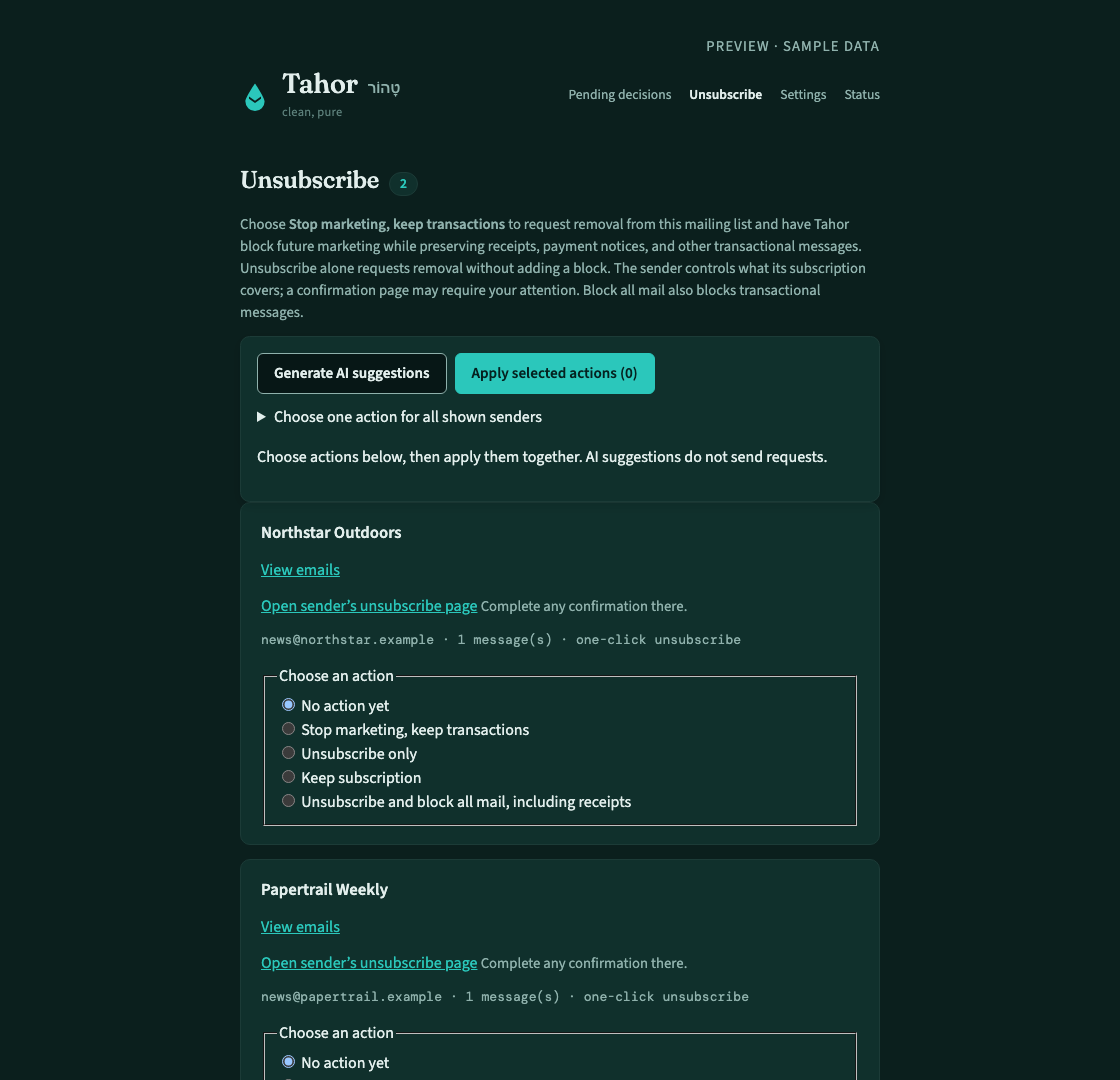
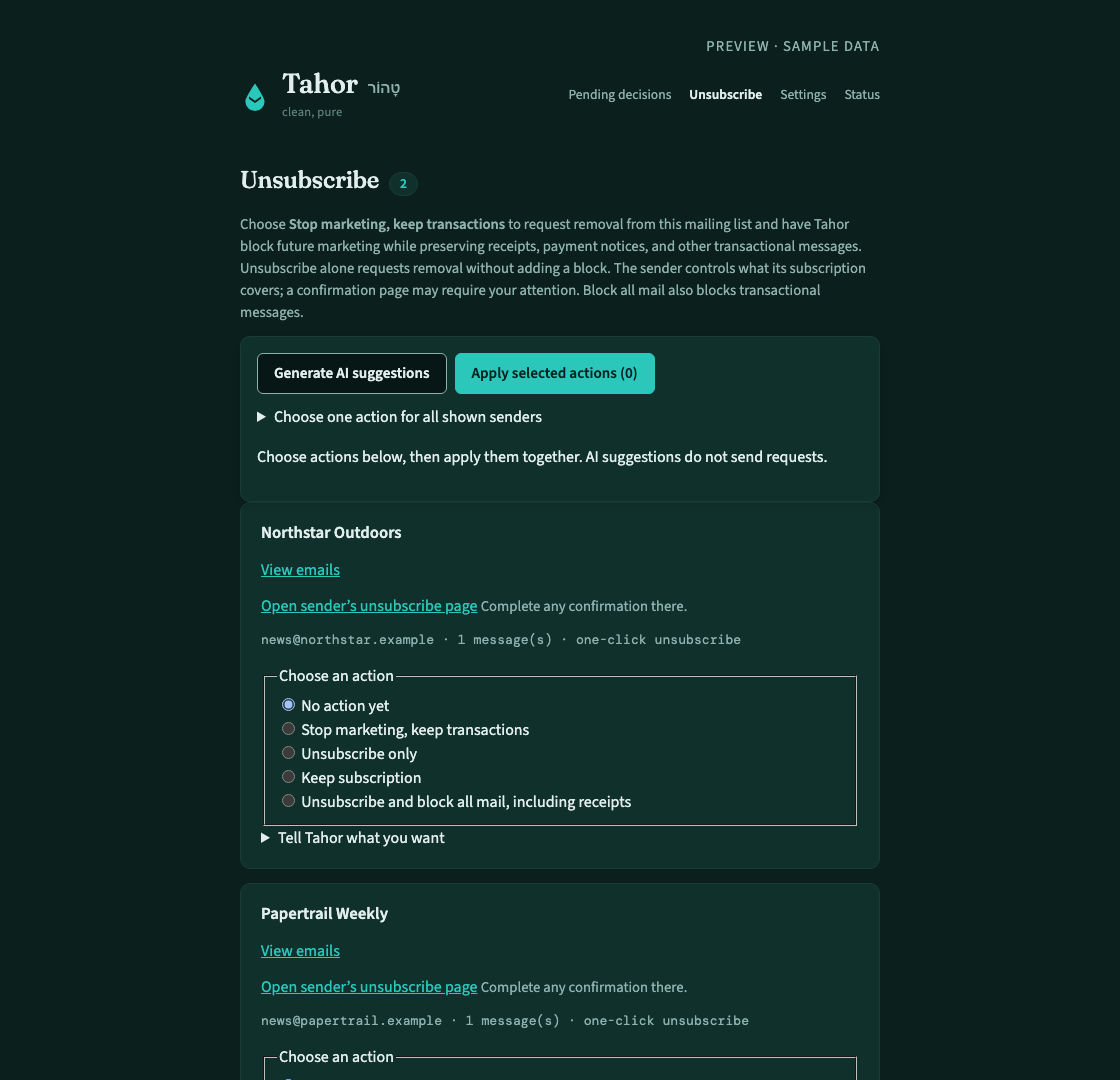
Add contextual instructions to subscription and decision cards

Changed region(s): [[0.2188, 0.7639, 0.6562, 1.0]]

diff --git a/subscription_bulk_ui.py b/subscription_bulk_ui.py
@@ -10,7 +10,7 @@ SCRIPT = r'''<script>
  const storageKey='tahor-subscription-choices';
  let saved={}; try{saved=JSON.parse(sessionStorage.getItem(storageKey)||'{}');}catch(_){}
  const choices=()=>cards().filter(c=>!c.dataset.queued).map(c=>({candidate_id:Number(c.dataset.subscriptionId),action:c.querySelector('input:checked')?.value})).filter(c=>c.action);
- function remember(){const state={};for(const c of cards()){const value=c.querySelector('input:checked')?.value;if(value||c.dataset.manual==='true')state[c.dataset.subscriptionId]={action:value,manual:c.dataset.manual==='true',attentionJob:c.dataset.attentionJob||''};}try{sessionStorage.setItem(storageKey,JSON.stringify(state));}catch(_){}}
+ function remember(){const state={};for(const c of cards()){const value=c.querySelector('input:checked')?.value;if(value||c.dataset.manual==='true')state[c.dataset.subscriptionId]={action:value,manual:c.dataset.manual==='true',attentionJob:c.dataset.attentionJob||'',instructionCleared:c.dataset.instructionCleared==='true',guidanceSaved:c.dataset.guidanceSaved==='true'};}try{sessionStorage.setItem(storageKey,JSON.stringify(state));}catch(_){}}
  function prioritize(preserve=true){
   const list=document.querySelector('#subscription-cards');if(!list||document.querySelector('dialog.email-preview[open]'))return;
   const current=[...list.querySelectorAll('[data-subscription-id]')];
@@ -27,8 +27,9 @@ SCRIPT = r'''<script>
  document.addEventListener('close',()=>setTimeout(()=>prioritize(),0),true);
  function count(preserve=true){bar.querySelector('[data-selected-count]').textContent=String(choices().length);prioritize(preserve);}
  function choose(c,action,manual){const radio=[...c.querySelectorAll('input[type="radio"]')].find(r=>r.value===action);if(radio&&!c.dataset.queued){radio.checked=true;if(manual)c.dataset.manual='true';}}
- for(const c of cards()){const old=saved[c.dataset.subscriptionId];if(old?.attentionJob)c.dataset.attentionJob=old.attentionJob;if(old?.manual)choose(c,old.action,true);}
- document.addEventListener('change',event=>{const c=event.target.closest('[data-subscription-id]');if(c&&event.target.type==='radio'){c.dataset.manual='true';remember();count();}});
+ for(const c of cards()){const old=saved[c.dataset.subscriptionId];if(old?.attentionJob)c.dataset.attentionJob=old.attentionJob;if(old?.instructionCleared)c.dataset.instructionCleared='true';if(old?.guidanceSaved)c.dataset.guidanceSaved='true';if(old?.manual)choose(c,old.action,true);}
+ document.addEventListener('card-guidance-state',()=>remember());
+ document.addEventListener('change',event=>{const c=event.target.closest('[data-subscription-id]');if(c&&event.target.type==='radio'){if(event.isTrusted){delete c.dataset.instructionCleared;delete c.dataset.guidanceSaved;}c.dataset.manual='true';remember();count();}});
  bar.querySelector('[data-select-all]').addEventListener('click',()=>{const action=bar.querySelector('[data-bulk-choice]').value;for(const c of cards())choose(c,action,true);remember();count();});
  async function request(url,values){const options={credentials:'same-origin',headers:{Accept:'application/json'}};if(values){options.method='POST';options.body=new URLSearchParams({csrf_token:csrf,...values});}const response=await fetch(url,options);const body=await response.json();if(!response.ok)throw new Error(body.error||'The request could not be confirmed.');return body;}
  const wait=()=>new Promise(resolve=>setTimeout(resolve,2000));
@@ -37,7 +38,7 @@ SCRIPT = r'''<script>
  let sending=false;let pending=null;
  apply.addEventListener('click',async()=>{if(sending)return;const selected=choices();if(!pending&&!selected.length){notice.textContent='Choose an action for at least one sender.';return;}pending=pending||{request_key:[...crypto.getRandomValues(new Uint8Array(16))].map(value=>value.toString(16).padStart(2,'0')).join(''),selections:JSON.stringify(selected)};sending=true;apply.disabled=true;notice.textContent='Saving selected actions…';try{const job=await request('/unsubscribe/batches',pending);pending=null;notice.textContent='Selected actions are queued. You can continue reviewing other senders.';follow(job,true);}catch(error){notice.textContent=error.message+' Retry Apply selected actions to confirm this same request.';}finally{sending=false;apply.disabled=false;}});
  function suggestions(job){for(const suggestion of job.recommendations||[]){const c=cardFor(suggestion.candidate_id);if(!c||c.dataset.manual==='true'||c.dataset.queued)continue;choose(c,suggestion.action,false);c.dataset.recommended='true';c.querySelector('.subscription-result').textContent='AI suggestion: '+suggestion.reason;}remember();count();}
- generate.addEventListener('click',async()=>{if(generate.disabled)return;generate.disabled=true;notice.textContent='Generating suggestions for the next batch…';try{let job=await request('/unsubscribe/suggestions',{exclude_ids:JSON.stringify(cards().filter(c=>c.dataset.manual==='true'||c.dataset.queued).map(c=>Number(c.dataset.subscriptionId)))});suggestions(job);while(job.status!=='complete'&&job.status!=='failed'){notice.textContent=job.error||((job.status==='queued'?'Waiting for the background worker. ':'Generating suggestions. ')+(job.completed||0)+' of '+(job.total||0)+' processed. '+((job.recommendations||[]).length?(job.recommendations.length+' suggestions ready for review.'):'No suggestions are ready yet.'));await wait();job=await request('/unsubscribe/suggestions/'+job.job_id);suggestions(job);}notice.textContent=job.error||((job.recommendations||[]).length?'Suggestions are selected for review. Nothing is applied until you submit.':'No new suggestions in this batch. Your current choices are unchanged.');}catch(error){notice.textContent=error.message;}finally{generate.disabled=false;}});
+ generate.addEventListener('click',async()=>{if(generate.disabled)return;generate.disabled=true;for(const c of cards()){if(c.dataset.guidanceSaved==='true'&&c.dataset.instructionCleared==='true'&&!c.dataset.queued){delete c.dataset.manual;delete c.dataset.guidanceSaved;delete c.dataset.instructionCleared;}}remember();notice.textContent='Generating suggestions for the next batch…';try{let job=await request('/unsubscribe/suggestions',{exclude_ids:JSON.stringify(cards().filter(c=>c.dataset.manual==='true'||c.dataset.queued).map(c=>Number(c.dataset.subscriptionId)))});suggestions(job);while(job.status!=='complete'&&job.status!=='failed'){notice.textContent=job.error||((job.status==='queued'?'Waiting for the background worker. ':'Generating suggestions. ')+(job.completed||0)+' of '+(job.total||0)+' processed. '+((job.recommendations||[]).length?(job.recommendations.length+' suggestions ready for review.'):'No suggestions are ready yet.'));await wait();job=await request('/unsubscribe/suggestions/'+job.job_id);suggestions(job);}notice.textContent=job.error||((job.recommendations||[]).length?'Suggestions are selected for review. Nothing is applied until you submit.':'No new suggestions in this batch. Your current choices are unchanged.');}catch(error){notice.textContent=error.message;}finally{generate.disabled=false;}});
  count(false);request('/unsubscribe/batches').then(jobs=>jobs.forEach(job=>follow(job))).catch(()=>{notice.textContent='Saved progress could not be loaded. Reload before submitting existing work.';});
 })();
 </script>'''

diff --git a/decision-app/app.py b/decision-app/app.py
@@ -41,6 +41,8 @@ import provider_bridge
 import mailbox_settings
 import message_preview
 import subscription_bulk_ui
+import card_instructions
+import card_instructions_ui
 import settings_autosave
 import vendor_review_state
 import decision_interactions
@@ -721,6 +723,7 @@ def index():
     automatic_ids = set(vendor_suggestions.pending_work_ids(db)) if mailbox_settings.is_ai_enabled('rule') else set()
     automatic_count = 0
     cards = []
+    saved_instructions = card_instructions.get_all_card_instructions('decision')
     for row in pending:
         ctx = decision_context(row)
         if row["kind"] == "free_text_rule":
@@ -802,6 +805,9 @@ def index():
             cards.append(CARD_GENERIC.format(id=row["id"], summary=html(row["summary"] or '(No subject)'), context=html(ctx), details=details))
 
         if cards:
+            instruction_form = card_instructions_ui.render('decision', row['id'], saved_instructions.get(row['id'], ''))
+            end = cards[-1].rfind('</div>')
+            cards[-1] = cards[-1][:end] + instruction_form + cards[-1][end:]
             cards[-1] = cards[-1].replace('<div class="card"', f'<div class="card" data-decision-id="{row["id"]}" data-decision-kind="{row["kind"]}"', 1)
 
     review_count = len(cards)
@@ -835,7 +841,7 @@ def index():
         sieve_banner=sieve_banner,
         cards=body,
         sieve_content=html(sieve_content),
-    ) + decision_interactions.SCRIPT
+    ) + decision_interactions.SCRIPT + card_instructions_ui.SCRIPT
 
 
 def _settings_status_line(current_mode):
@@ -1235,6 +1241,21 @@ def resolve(decision_id):
     return redirect("/")
 
 
+@app.route("/card-instructions/<kind>/<int:identifier>", methods=["POST"])
+@login_required
+def save_card_guidance(kind, identifier):
+    action = request.form.get('submit_action', 'guidance')
+    if action not in ('guidance', 'propose_rule'):
+        return jsonify(error='Choose whether to save guidance or propose a rule.'), 400
+    try:
+        result = card_instructions.save_card_instructions(kind, identifier, request.form.get('instructions', ''), propose_rule=action == 'propose_rule')
+    except LookupError:
+        return jsonify(error='This review item no longer exists. Refresh the page.'), 404
+    except ValueError as error:
+        return jsonify(error=str(error)), 400
+    return jsonify(result)
+
+
 @app.route("/add-rule", methods=["POST"])
 @login_required
 def add_rule():
@@ -1387,7 +1408,7 @@ def retry_rule(decision_id):
     return redirect("/")
 
 
-def _unsubscribe_card(row, non_compliant=False, suggestion=None, related_handled=None):
+def _unsubscribe_card(row, non_compliant=False, suggestion=None, related_handled=None, instructions=None):
     mechanism = "one-click unsubscribe" if row["one_click"] else ("unsubscribe link" if row["unsubscribe_url"] else ("email unsubscribe" if row["unsubscribe_mailto"] else "no unsubscribe mechanism found"))
     template = NON_COMPLIANT_CARD if non_compliant else UNSUBSCRIBE_CARD
     rendered = template.format(
@@ -1405,6 +1426,8 @@ def _unsubscribe_card(row, non_compliant=False, suggestion=None, related_handled
         rendered = rendered.replace('data-subscription-id=', 'data-recommended="true" data-subscription-id=', 1)
         rendered = rendered.replace('value="" checked', 'value=""').replace('value="' + suggestion['action'] + '"', 'value="' + suggestion['action'] + '" checked')
         rendered = rendered.replace('</fieldset>', '</fieldset><p class="ai-suggestion">AI suggestion: ' + html(suggestion.get('reason', '')) + '</p>')
+    end = rendered.rfind('</div>')
+    rendered = rendered[:end] + card_instructions_ui.render('subscription', row['id'], (card_instructions.get_card_instructions('subscription', row['id']) if instructions is None else instructions)) + rendered[end:]
     return rendered
 
 
@@ -1428,13 +1451,14 @@ def unsubscribe_page():
     non_compliant_banner = ""
     if non_compliant_rows:
         non_compliant_banner = NON_COMPLIANT_SECTION.format(cards='')
+    saved_instructions = card_instructions.get_all_card_instructions('subscription')
     ordered_rows = sorted(list(non_compliant_rows) + list(pending_rows), key=lambda row: row['id'] not in suggestions)
-    body = "".join(_unsubscribe_card(r, non_compliant=bool(r['non_compliant']), suggestion=suggestions.get(r["id"]), related_handled=handled_names.get((r["display_name"] or "").strip().casefold())) for r in ordered_rows) if ordered_rows else '<p class="empty">No unsubscribe candidates pending.</p>'
+    body = "".join(_unsubscribe_card(r, non_compliant=bool(r['non_compliant']), suggestion=suggestions.get(r["id"]), instructions=saved_instructions.get(r['id'], ''), related_handled=handled_names.get((r["display_name"] or "").strip().casefold())) for r in ordered_rows) if ordered_rows else '<p class="empty">No unsubscribe candidates pending.</p>'
     return UNSUBSCRIBE_PAGE_TEMPLATE.format(
         icon=TAHOR_ICON,
         style=STYLE_BLOCK,
         header=tahor_header("unsubscribe"),
-        interaction_script=subscription_bulk_ui.SCRIPT,
+        interaction_script=subscription_bulk_ui.SCRIPT + card_instructions_ui.SCRIPT,
         flash=FLASH_BANNER.format(message=html(session.pop("flash", ""))) if session.get("flash") else "",
         count=len(non_compliant_rows) + len(pending_rows),
         bulk_controls=subscription_bulk_ui.BAR,

diff --git a/card_instructions_ui.py b/card_instructions_ui.py
@@ -1,0 +1,42 @@
+"""Contextual owner guidance without leaving a review card."""
+from html import escape
+
+
+def render(kind, identifier, text=''):
+    return f'''<details class="card-instructions"><summary>Tell Tahor what you want</summary>
+<form method="post" action="/card-instructions/{kind}/{int(identifier)}" data-card-instructions>
+<label>Your instructions<textarea name="instructions" rows="3" maxlength="4000" required placeholder="Explain who this sender is and how you want their emails handled.">{escape(text)}</textarea></label>
+<p class="hint">Save guidance to improve AI recommendations for this sender. Propose a rule to request a mailbox policy change; review the proposal on Pending decisions before it applies. Neither button sends a reply or unsubscribes you.</p>
+<div class="actions"><button name="submit_action" value="guidance">Save AI guidance</button><button name="submit_action" value="propose_rule">Propose a rule</button></div>
+<p data-instruction-status role="status" aria-live="polite"></p>
+</form></details>'''
+
+SCRIPT = r'''<script>
+(() => {
+ document.addEventListener('input', event => {
+  const form=event.target.closest('[data-card-instructions]');if(!form)return;
+  const card=form.closest('[data-subscription-id]');if(card){delete card.dataset.guidanceSaved;card.dispatchEvent(new Event('card-guidance-state',{bubbles:true}));}
+  if(card&&!card.dataset.queued&&card.dataset.manual!=='true'){
+   const none=card.querySelector('input[type="radio"][value=""]');
+   if(none){card.dataset.instructionCleared='true';none.checked=true;none.dispatchEvent(new Event('change',{bubbles:true}));}
+  }
+ });
+ document.addEventListener('submit', async event => {
+  const form=event.target.closest('[data-card-instructions]');if(!form)return;
+  event.preventDefault();if(form.dataset.busy)return;
+  const data=new FormData(form);data.set('submit_action',event.submitter?.value||'guidance');
+  const status=form.querySelector('[data-instruction-status]');
+  form.dataset.busy='true';form.querySelectorAll('button').forEach(b=>b.disabled=true);
+  status.textContent='Saving your instructions…';
+  try{
+   const response=await fetch(form.getAttribute('action'),{method:'POST',body:data,credentials:'same-origin',headers:{Accept:'application/json'}});
+   const result=await response.json();if(!response.ok)throw new Error(result.error||'Instructions could not be saved.');
+   const unchanged=form.querySelector('textarea').value===data.get('instructions');
+   status.textContent=unchanged?(result.message||'Guidance saved. Generate fresh suggestions to use it.'):'Earlier text saved; save your latest edits before generating.';
+   const card=form.closest('[data-subscription-id]');if(unchanged&&card?.dataset.instructionCleared){card.dataset.guidanceSaved='true';card.dispatchEvent(new Event('card-guidance-state',{bubbles:true}));}
+   if(result.decision_id){const link=document.createElement('a');link.href='/';link.textContent=' Review rule proposals';status.append(link);}
+  }catch(error){status.textContent=error.message||'Could not confirm the save. Your text is still here; retry when ready.';}
+  finally{delete form.dataset.busy;form.querySelectorAll('button').forEach(b=>b.disabled=false);}
+ });
+})();
+</script>'''

diff --git a/README.md b/README.md
@@ -179,7 +179,9 @@ The action bar stays visible as you scroll, and each sender shows its own result
 **Generate AI suggestions** selects recommendations for your review using past
 decisions and your private guidance; it never applies them. Each batch covers
 50 senders by default, configurable in Settings. Submitted choices guide later
-recommendations. Recommended and selected items appear above undecided ones. Free recommendations can miss
+recommendations. **Tell Tahor what you want** on a subscription or decision card
+lets you add written guidance, or request a rule proposal to review before it
+changes mailbox policy. Recommended and selected items appear above undecided ones. Free recommendations can miss
 preferences for wanted coupons; review the selected actions before applying them. Some senders require confirmation on their website;
 email-based requests require an app password with SMTP sending access.
 

diff --git a/docs/operations.md b/docs/operations.md
@@ -579,3 +579,12 @@ Recommended and selected subscriptions appear before untouched items, both when
 the page opens and as recommendations arrive. Reordering preserves the visible
 card and manual selections. Browser storage restores manual choices only; stale
 AI selections do not survive a change in recommendation context.
+
+
+Each subscription and pending decision card includes **Tell Tahor what you want**.
+Use **Save AI guidance** to explain a sender relationship or correct a recommendation;
+use **Propose a rule** when you want a mailbox policy change. Proposals enter the
+existing Pending decisions review flow and require approval. Saving a note does not
+apply an unsubscribe choice, delete mail, or send a reply. Notes stay in the private
+database and recovery backups. Sender context comes from the stored review item;
+email contents and unsubscribe links are not treated as owner instructions.
